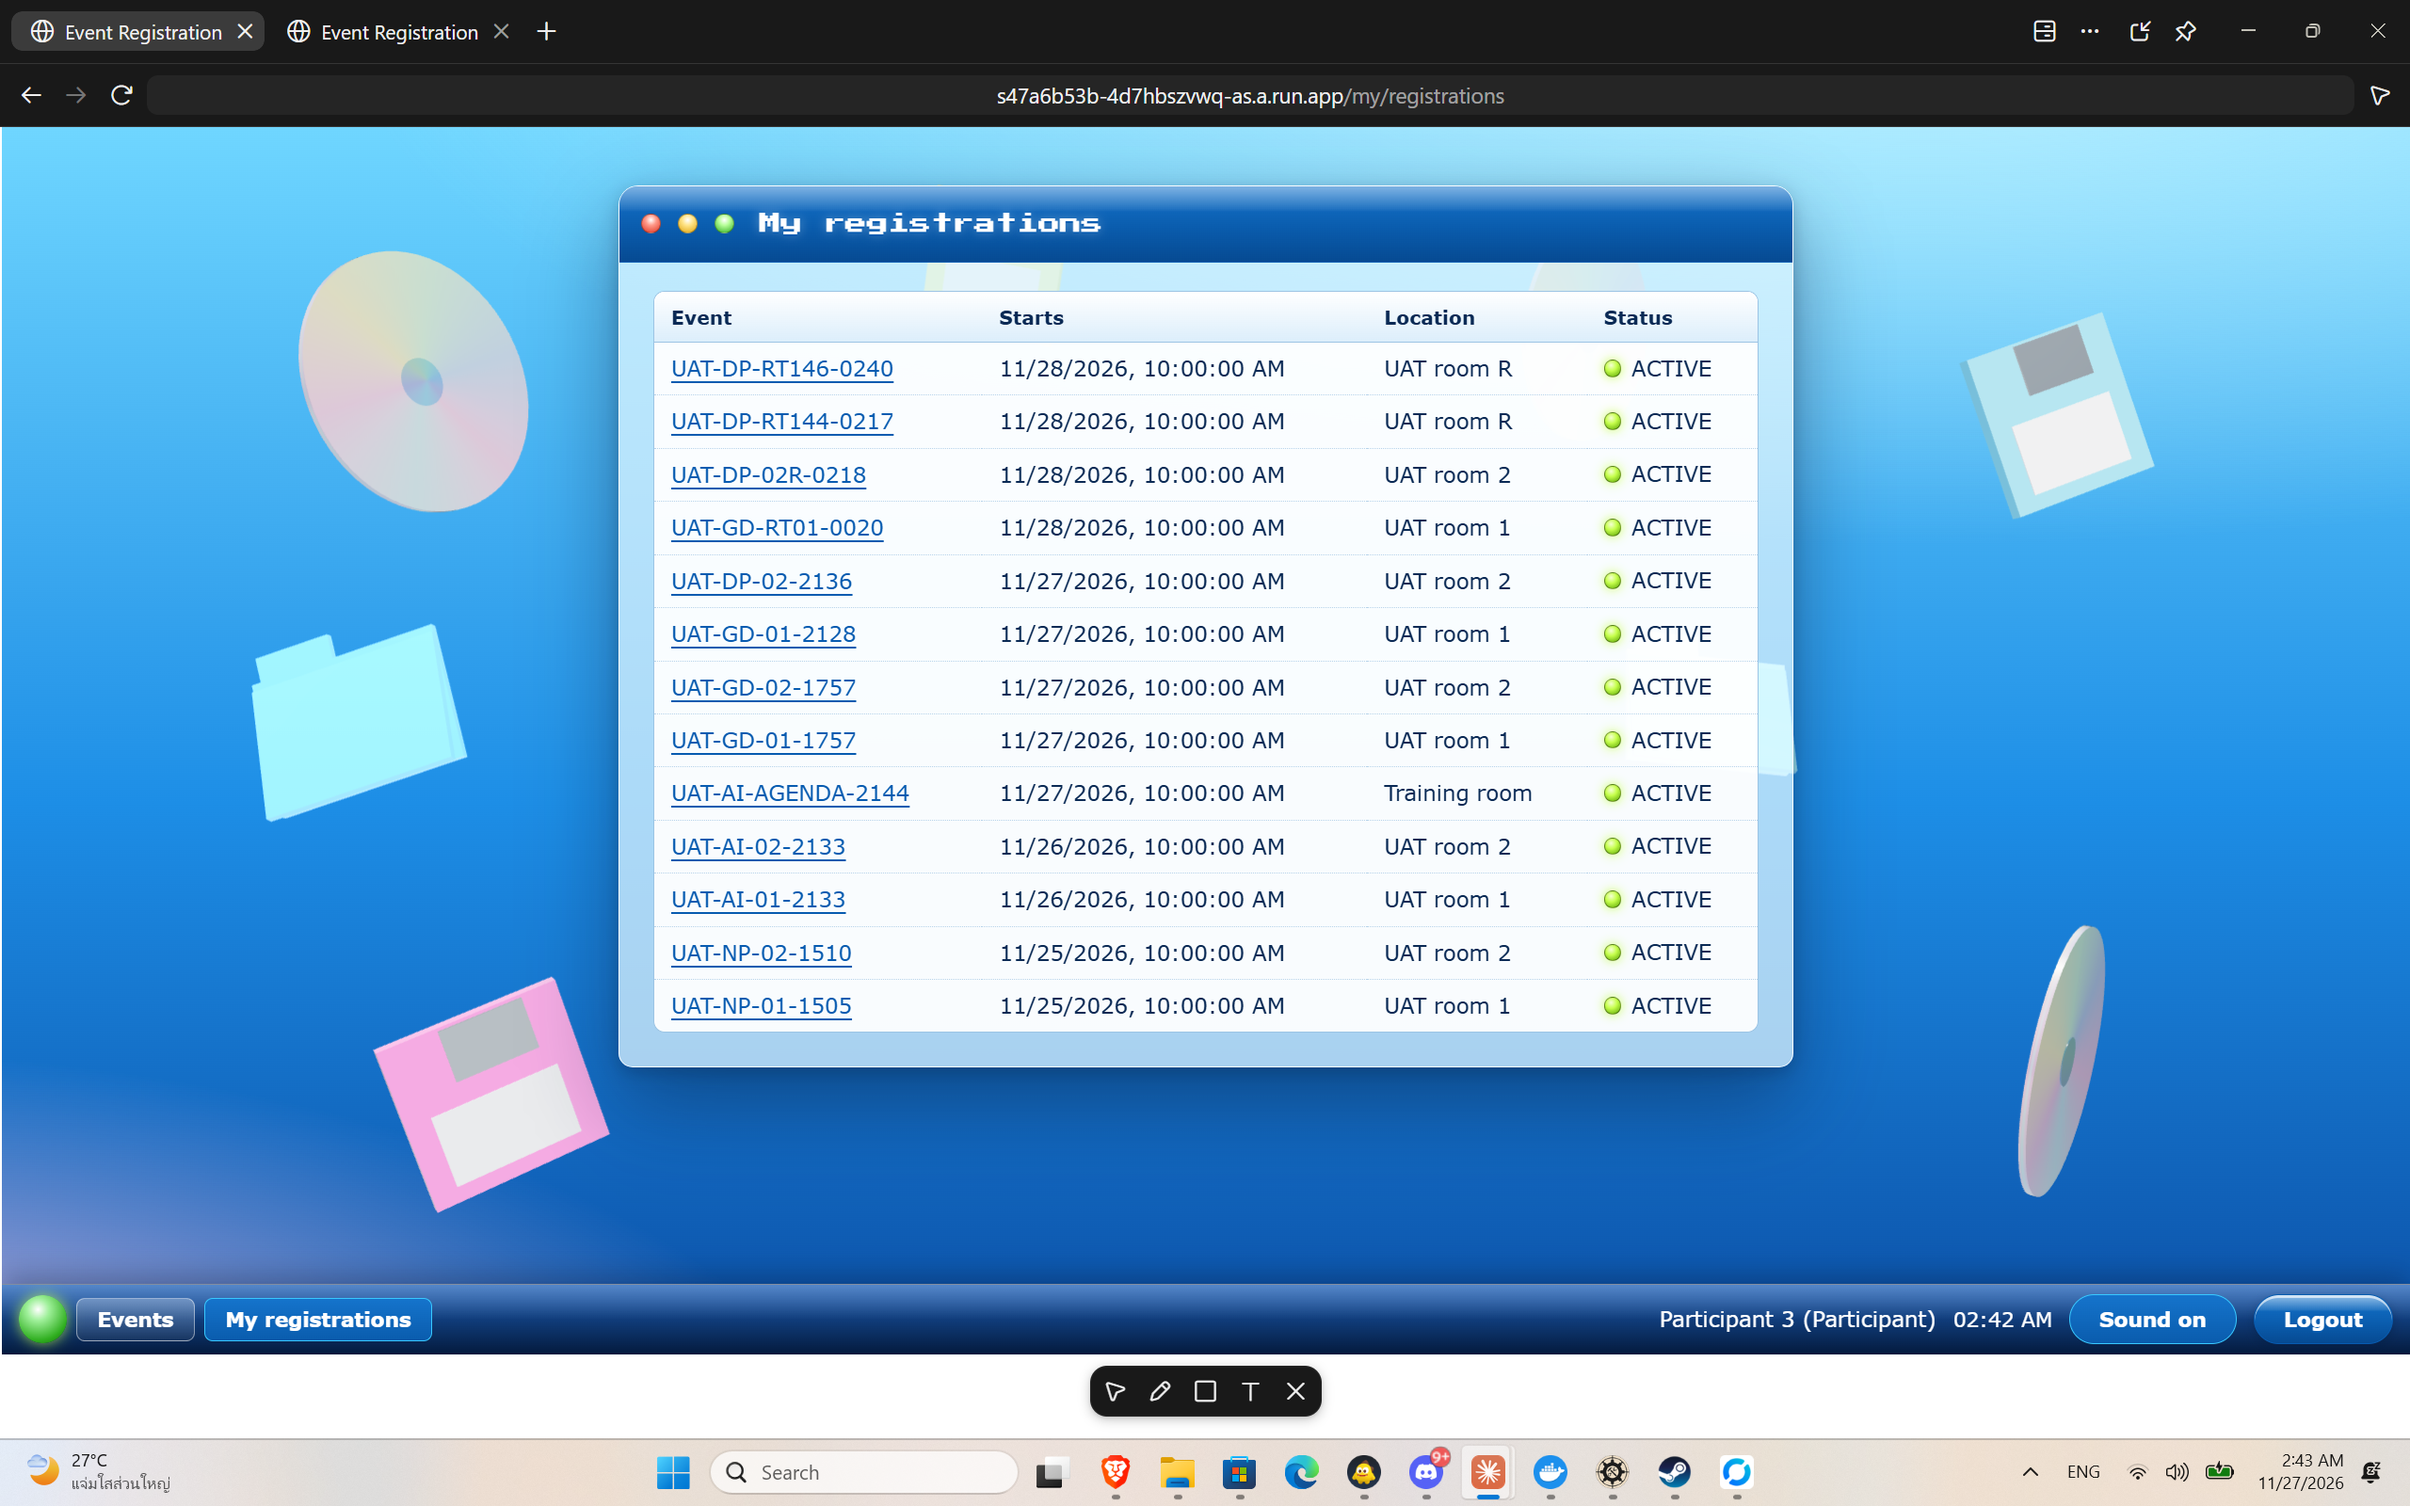
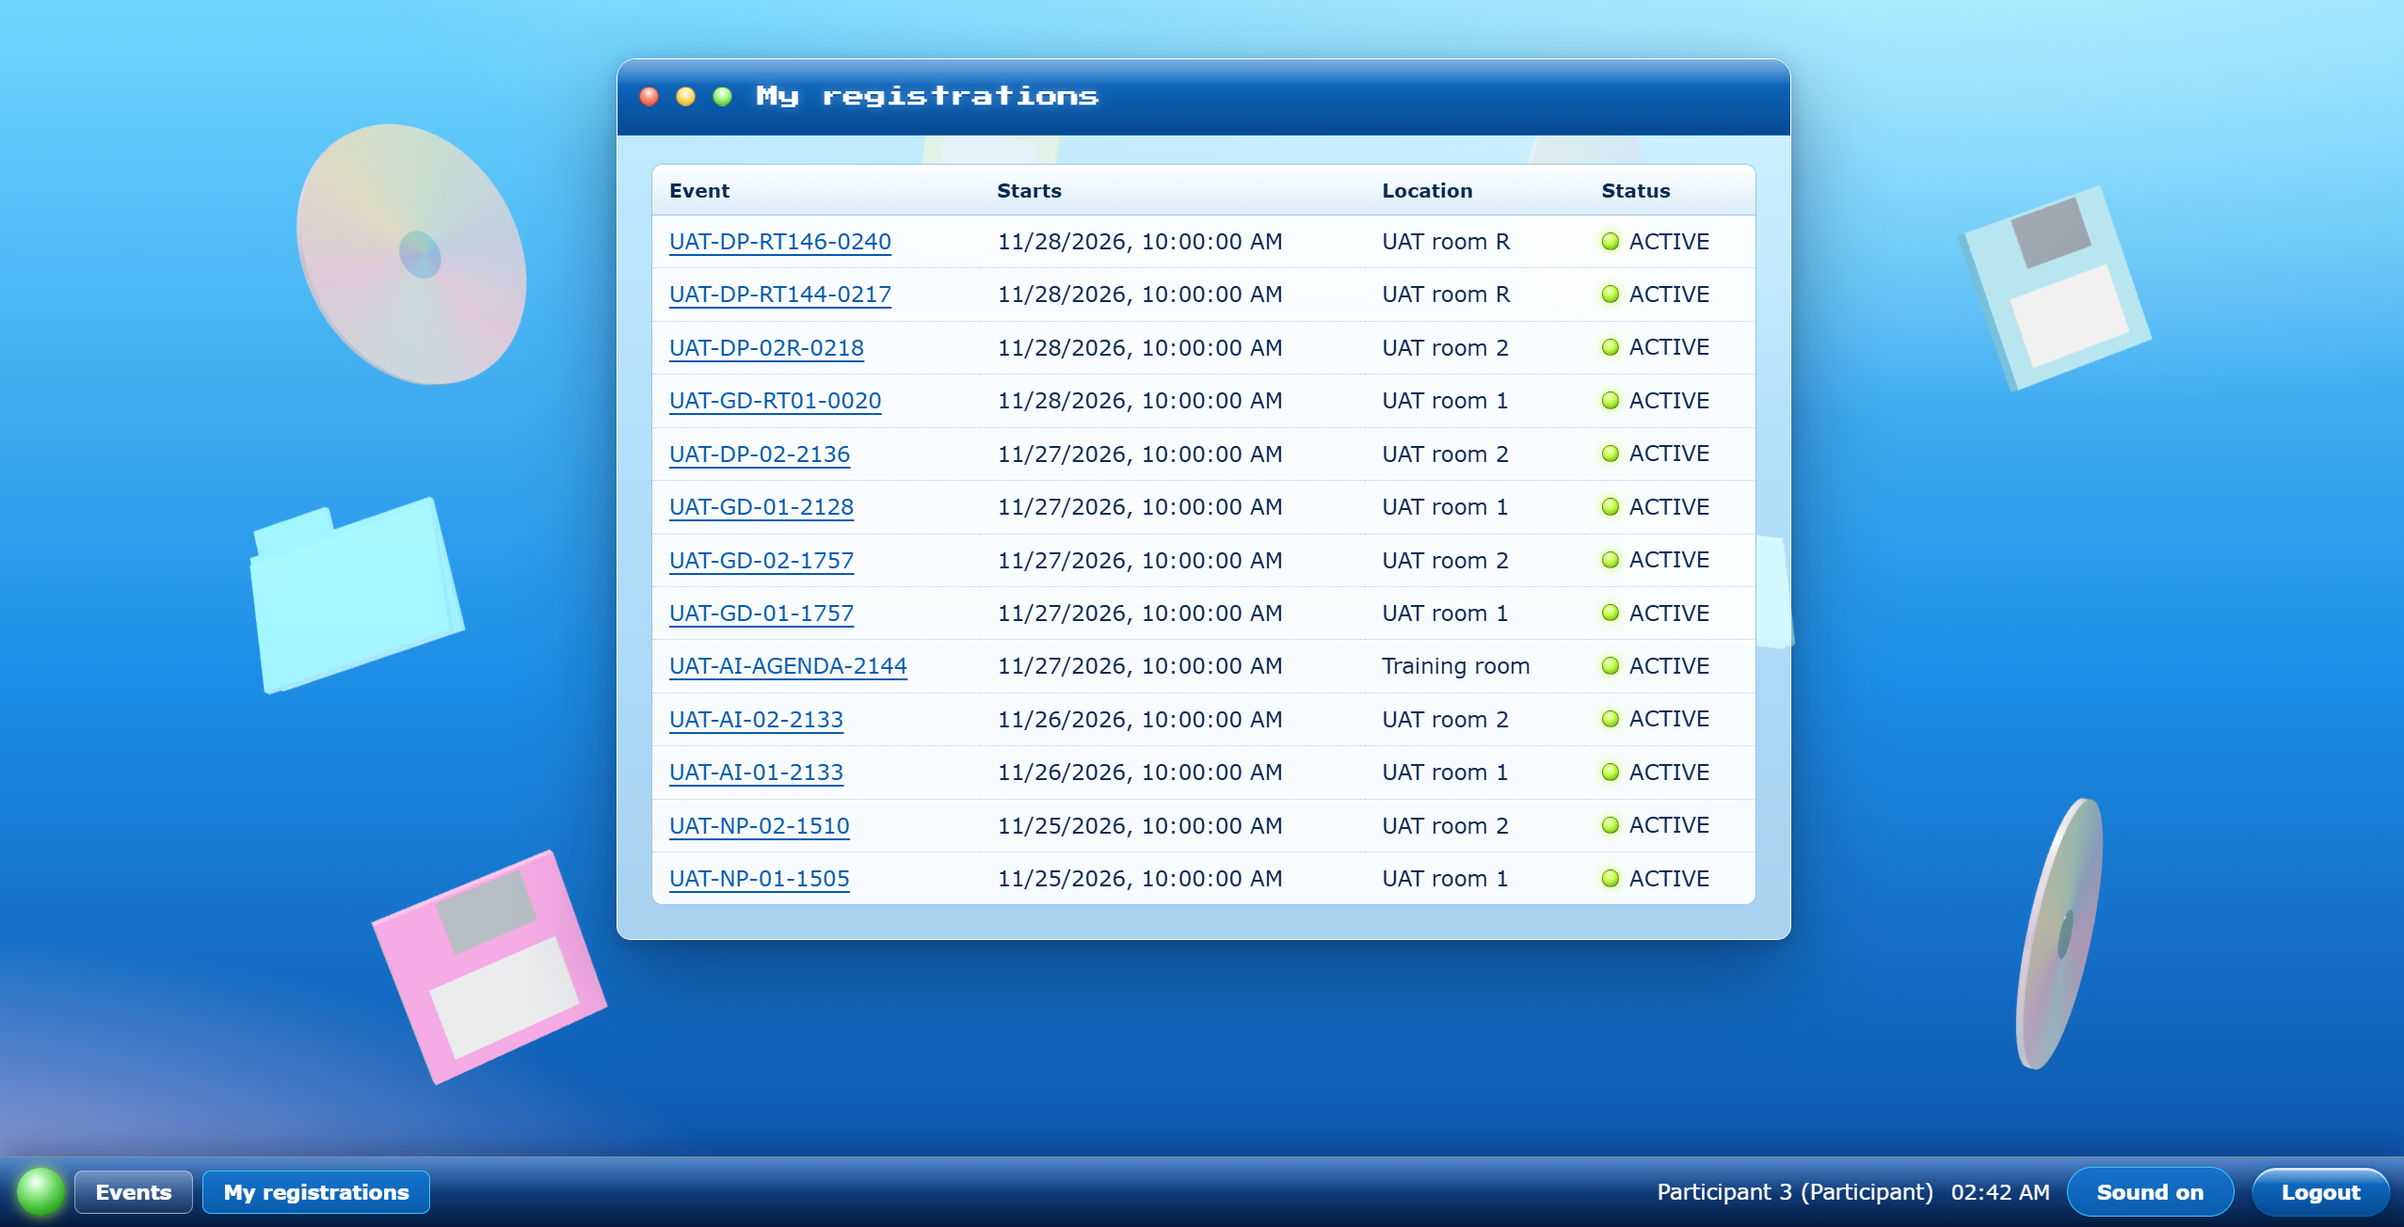
docs(lab6): replace HQ screenshots with page-only crops, list page/time per file

diff --git a/docs/labs/lab-06/execution-partner.md b/docs/labs/lab-06/execution-partner.md
@@ -131,7 +131,7 @@ Split agreement (Option A): `vieng` verified `RT-F02` two-tab flows alongside `#
 | RT-F02 | their F-01 UI contract, Protected navigation (revoked session redirects to /login); AC-04, AC-40, AC-56 | AI (Playwright @2x on vieng request, not by hand); ninja check on #142 pending | 2026-11-27 00:20:45 UTC+7 | `v0.1.3-lab6` / `502d2a6` / `s47a6b53b-00006-7bv` (`index-CcXia3Aw.js`) | 1. Participant 3 signs in, open tab A and tab B.<br>2. Logout in tab B.<br>3. In tab A click My registrations; repeat clicking Logout.<br>4. Repeat with Organizer One (`/events` -> My events, Save draft, Publish). | **vieng side PASS:** Participant 3 Tab A `My registrations` and `Logout`, and Organizer One Tab A `Save draft`, `Publish`, and `My events` each hit `1 × 401` and redirected cleanly to `/login` with zero redirect loop, zero `"Logout failed"` banner, and zero saved changes (`UAT-CHECK-401-ONLY` not saved; `UAT-GD-RT01-0020` remained `DRAFT` after 401 Publish). Ninja to confirm `#142` separately. | PASS (`vieng` checks; `ninja` `#142` pending) | `B-RTF02-s01-p3-GD.png`, `B-RTF02-s02-p3-logout-GD.png`, `B-RTF02-s03-org-myevents-GD.png`, `B-RT152-s01-savedraft-GD.png`, `B-RT152-s02-publish-GD.png` |
 
 ### Re-test round by ninja's side (27 Nov 2026 02:15-02:46 UTC+7)
-Tester: AI (Claude, built-in browser) on ninja's request; ninja signed in each account by hand, the AI did not type any password; not run by hand. Version: `v0.1.3-lab6` / `502d2a6` / `s47a6b53b-00006-7bv`. A comment was posted on each partner Issue #141-#148. Evidence IDs are the file names in `screenshots-partner/` (full resolution 2560x1600; they are full-screen captures of the AI-driven browser window).
+Tester: AI (Claude, built-in browser) on ninja's request; ninja signed in each account by hand, the AI did not type any password; not run by hand. Version: `v0.1.3-lab6` / `502d2a6` / `s47a6b53b-00006-7bv`. A comment was posted on each partner Issue #141-#148. Evidence IDs are the file names in `screenshots-partner/` (cropped to the page only).
 
 | Finding | Result and actual |
 |---|---|
@@ -146,6 +146,17 @@ Tester: AI (Claude, built-in browser) on ninja's request; ninja signed in each a
 
 UAT-02 re-run on event UAT-DP-02R-0218: all 10 steps PASS (HQ-UAT02-s7-P4-sees-Full.png, HQ-UAT02-s8-P4-no-places-left.png, HQ-UAT02-s9-P4-my-registrations.png, HQ-UAT02-s10-O1-registrations.png). UAT-03 re-run: all 8 steps PASS; participant create denied with UAT-DP-03R-0222 and no draft saved (HQ-UAT03-s2-O2-denied.png, HQ-UAT03-s3-O2-own-events-only.png, HQ-UAT03-s4-O2-no-register-button.png, HQ-UAT03-s8-O1-list-unchanged.png).
 
+
+Evidence images are cropped to the page only (2554x1304, browser bar and Windows taskbar removed). Host for all: https://s47a6b53b-4d7hbszvwq-as.a.run.app, version as above. The time is the clock in the app's own taskbar where visible; the account is shown there too. Page per file (exact path only where it was recorded, otherwise the screen name):
+- HQ-141-long-text-wraps: event detail page of the long-text event, Organizer One / participant view (path not recorded).
+- HQ-142-a-tabA-signed-in: tab A signed in (Participant 3, path not recorded). HQ-142-b-tabA-back-to-sign-in: `/login` after logout in tab B.
+- HQ-143-a / HQ-143-b: event detail page `UAT-DP-RT146-0240` (2 of 3 places left at 02:42 in the app taskbar), Participant 3; path `/events/<id>` not recorded.
+- HQ-144-line-breaks-kept: event detail page with a 3-line description (path not recorded).
+- HQ-145-create-event-field-errors: Create event form `/organizer/events/new`, field errors with aria links.
+- HQ-146-a / HQ-146-b: My events `/organizer/events`, banner before and after Publish.
+- HQ-148-not-found-open-window: Not found page, window buttons named 'Restore/Open window: Not found'.
+- HQ-UAT02-s7, s8, s9: Participant 4 on event UAT-DP-02R-0218 (`/events/<id>`), then My registrations `/my/registrations`. HQ-UAT02-s10: Organizer One registrations page of that event.
+- HQ-UAT03-s2, s3, s4: Organizer Two on the Organizer One registrations address `/organizer/events/<id>/registrations`, My events `/organizer/events`, event detail. HQ-UAT03-s8: Organizer One registrations list.
 
 ## Final decision (after the partner fixes and we re-test)
 - Re-test version/date: `v0.1.3-lab6` / commit `502d2a6` / Cloud Run revision `s47a6b53b-00006-7bv` (bundle `index-CcXia3Aw.js`); `vieng` re-test run `2026-11-27 00:20–00:23 UTC+7`; `ninja` re-test (`#141–#148`, `UAT-02`, `UAT-03`) `2026-11-27 02:15–02:46 UTC+7`, all PASS (AI-run, not by hand; see section above)

diff --git a/docs/labs/lab-06/part-b-uat-team.md b/docs/labs/lab-06/part-b-uat-team.md
@@ -72,7 +72,7 @@ Row `RT-F02` in `execution-partner.md`: under split Option A on `v0.1.3-lab6` (`
 - Folder: `docs/labs/lab-06/screenshots-partner/`.
 - Name: `B-<case>-s<step>-<tester initials XX>.png`, e.g. `B-UAT02-s05-XX.png`; extra cases `B-X3-s03-XX.png`; re-test `B-RTF02-s03-XX.png`.
 - Show the revision/URL in the shot where the page allows it. No password or token in any screenshot.
-- Re-test screenshots from ninja's side are named `HQ-<finding or case>-...png` (2560x1600, full-screen captures, so the browser frame and desktop taskbar are visible); the evidence ID is the file name.
+- Re-test screenshots from ninja's side are named `HQ-<finding or case>-...png` (2554x1304, cropped to the page only; page and time per file are listed in `execution-partner.md`); the evidence ID is the file name.
 - A rejected case also needs a "before" and "after" shot showing the protected state did not change.
 
 ## B8. Honest note on how the findings and runs were made
